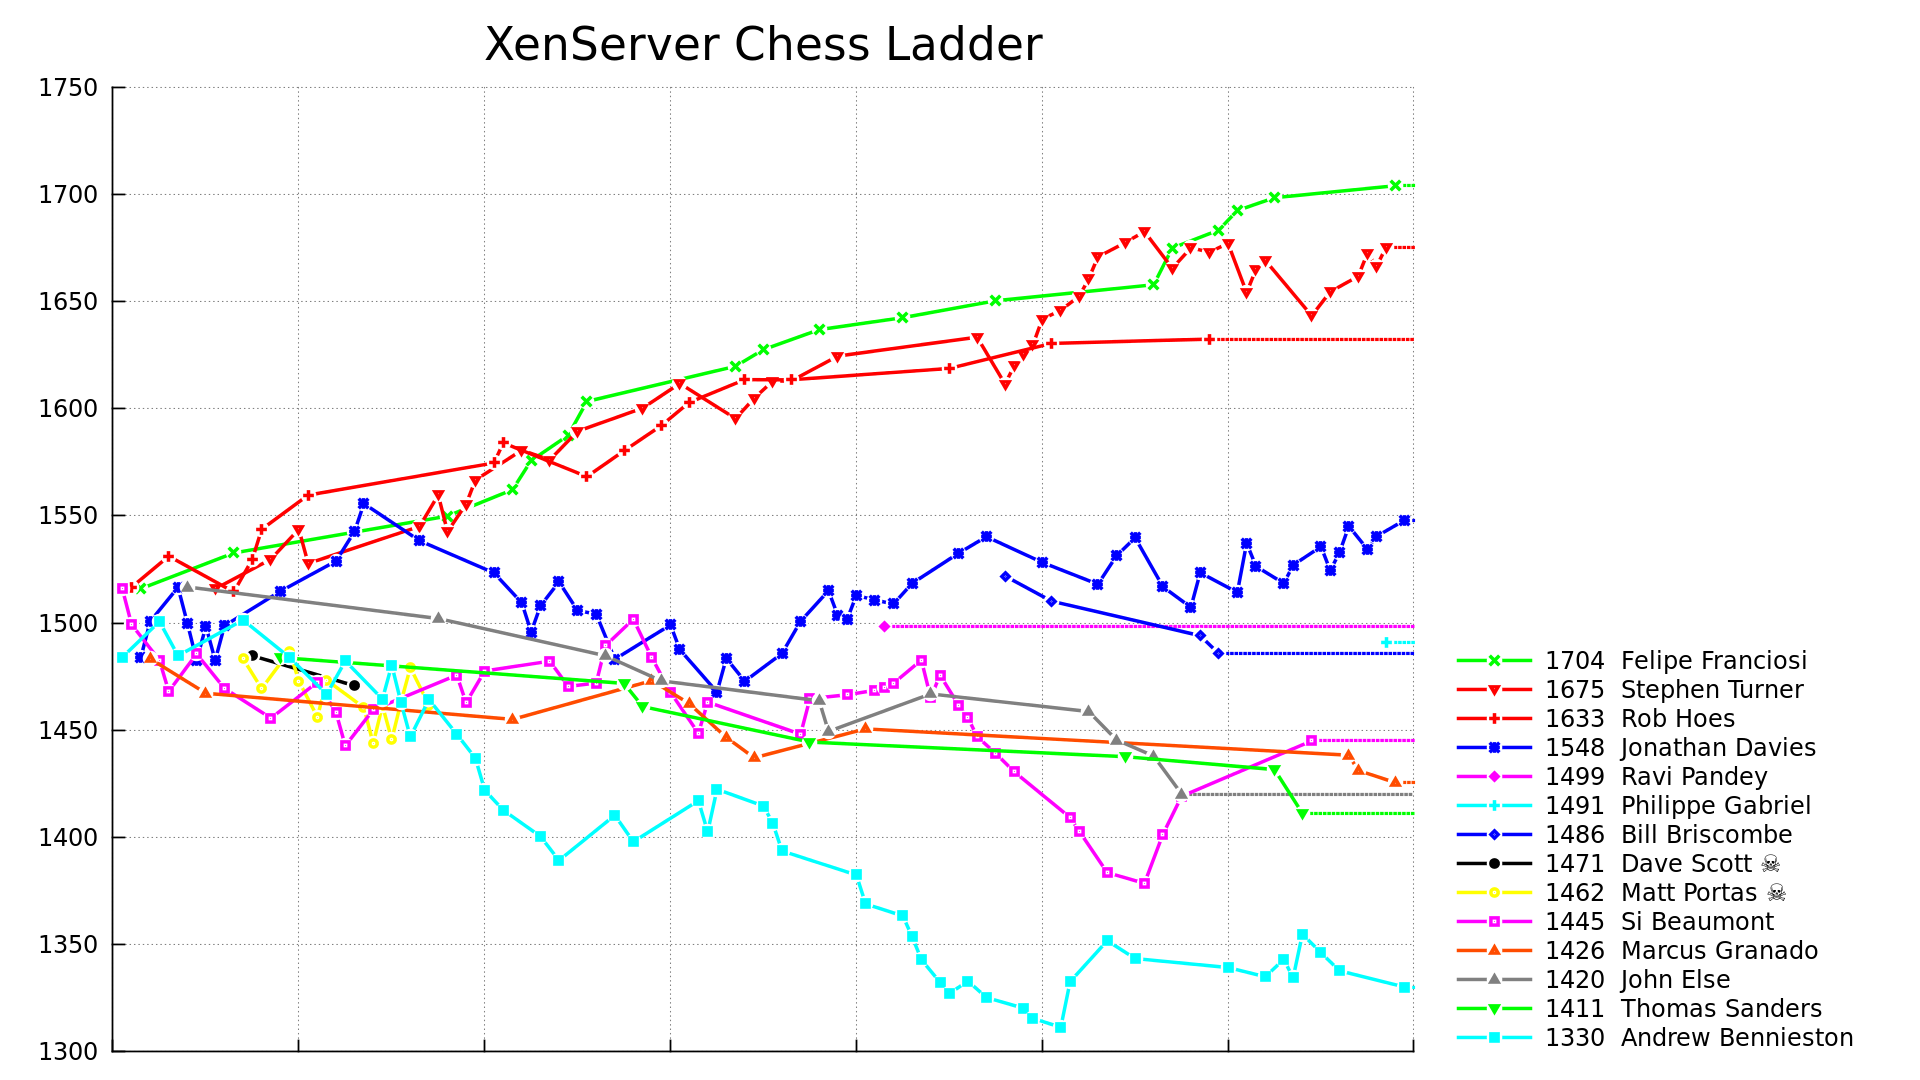
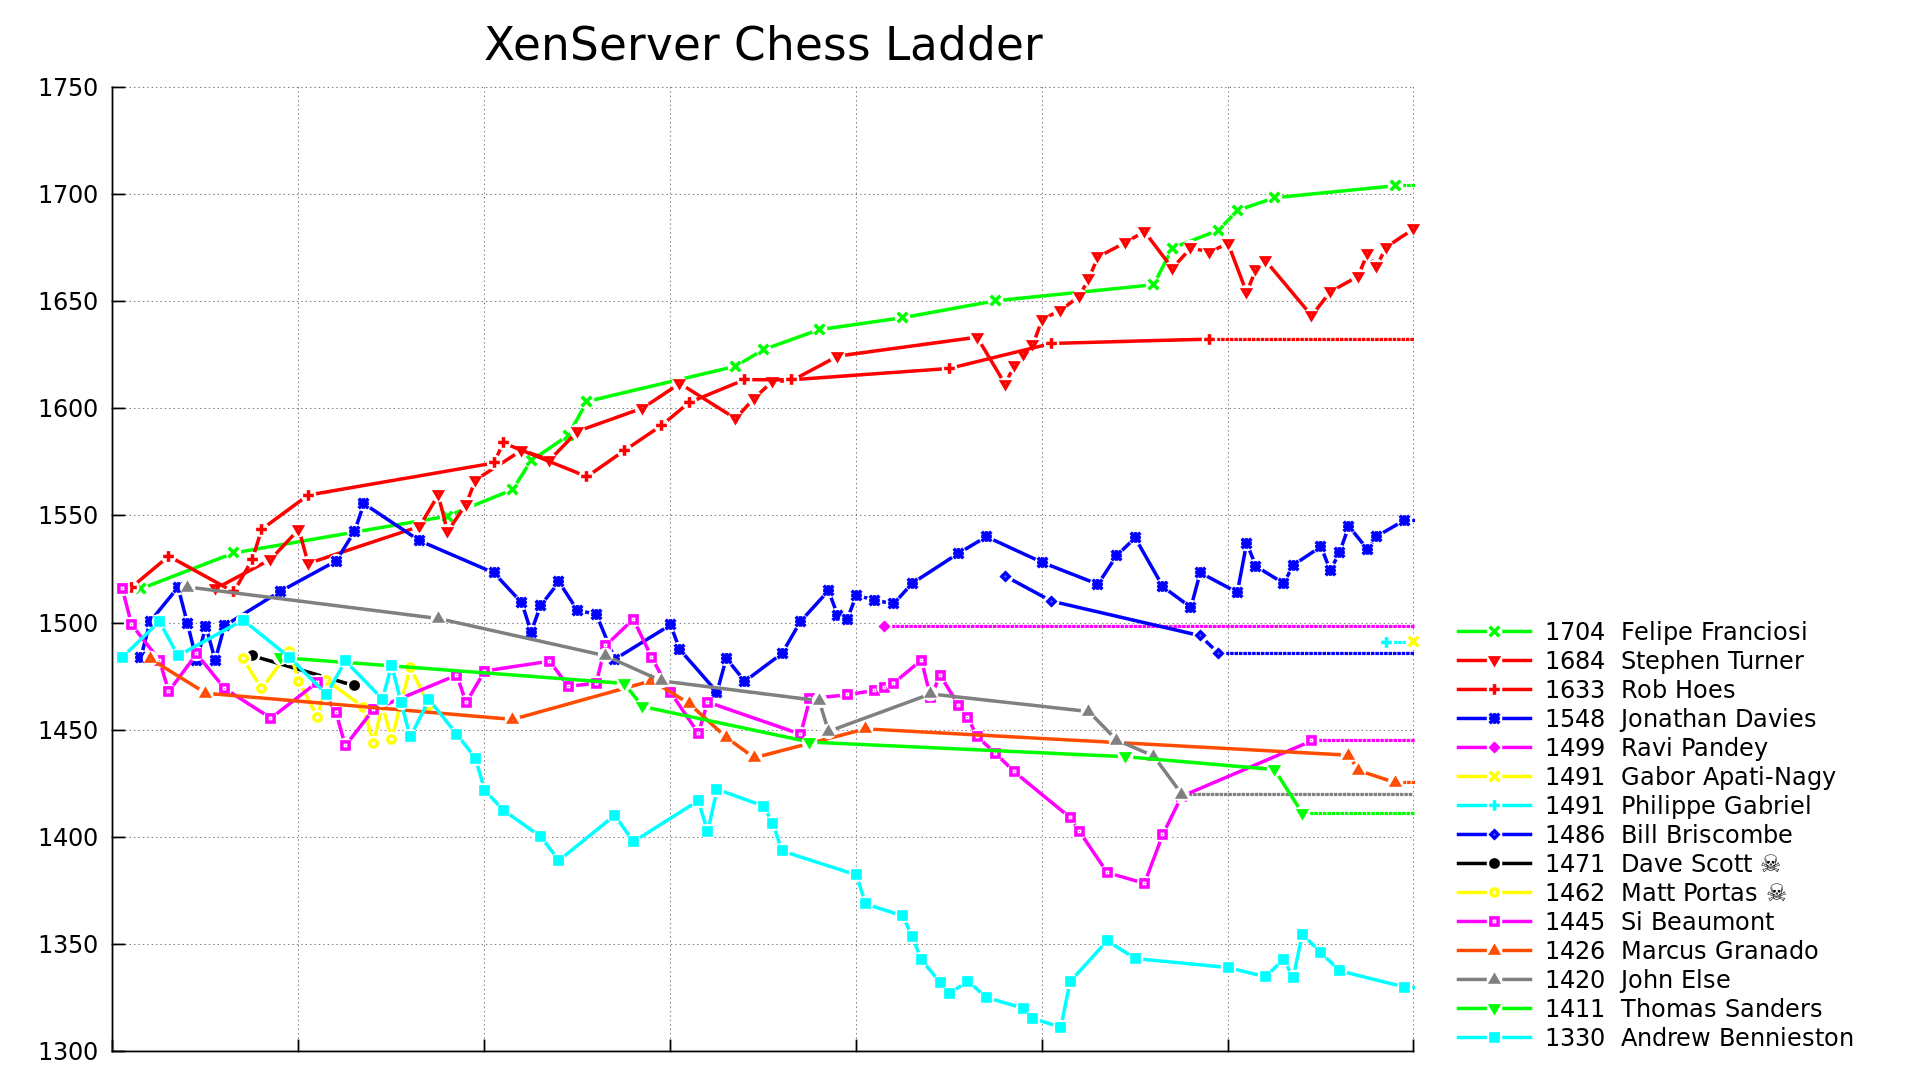
Travis build 267 pushed to gh-pages

Changed region(s): [[0.75, 0.5806, 0.9688, 0.7333]]

diff --git a/index.md b/index.md
@@ -4,32 +4,36 @@ layout: default
 # XenServer Chess Ladder
 ### Ladder
      1.  Felipe Franciosi                   1704  (18 / 18)
-     2.  Stephen Turner                     1675  (35 / 44)
+     2.  Stephen Turner                     1684  (36 / 45)
      3.  Rob Hoes                           1633  (14 / 17)
      4.  Jonathan Davies                    1548  (31 / 56)
      5.  Ravi Pandey                        1499  (0.5 / 1)
-     6.  Philippe Gabriel                   1491  (0 / 1)
-     7.  Bill Briscombe                     1486  (1 / 4)
-     8.  Dave Scott                      ☠  1471  (0 / 2)
-     9.  Matt Portas                     ☠  1462  (5 / 13)
-    10.  Si Beaumont                        1445  (18.5 / 44)
-    11.  Marcus Granado                     1426  (2 / 11)
-    12.  John Else                          1420  (2 / 11)
-    13.  Thomas Sanders                     1411  (0 / 7)
-    14.  Andrew Bennieston                  1330  (12 / 49)
+     6.  Gabor Apati-Nagy                   1491  (0 / 1)
+     7.  Philippe Gabriel                   1491  (0 / 1)
+     8.  Bill Briscombe                     1486  (1 / 4)
+     9.  Dave Scott                      ☠  1471  (0 / 2)
+    10.  Matt Portas                     ☠  1462  (5 / 13)
+    11.  Si Beaumont                        1445  (18.5 / 44)
+    12.  Marcus Granado                     1426  (2 / 11)
+    13.  John Else                          1420  (2 / 11)
+    14.  Thomas Sanders                     1411  (0 / 7)
+    15.  Andrew Bennieston                  1330  (12 / 49)
 ### Suggested games (least played)
              Ravi Pandey - Andrew Bennieston
           Thomas Sanders - Bill Briscombe
         Philippe Gabriel - Felipe Franciosi
+             Si Beaumont - Gabor Apati-Nagy
           Thomas Sanders - John Else
              Ravi Pandey - Jonathan Davies
         Philippe Gabriel - Marcus Granado
-             Si Beaumont - Philippe Gabriel
-                Rob Hoes - Bill Briscombe
-             Si Beaumont - Bill Briscombe
+                Rob Hoes - Philippe Gabriel
           Stephen Turner - Ravi Pandey
+                Rob Hoes - Gabor Apati-Nagy
+             Si Beaumont - Bill Briscombe
+        Gabor Apati-Nagy - Stephen Turner
           Thomas Sanders - Marcus Granado
 ### Games
+    2014-05-16:       Stephen Turner - Gabor Apati-Nagy          1 - 0
     2014-05-16:      Jonathan Davies - Andrew Bennieston         1 - 0
     2014-05-16:       Marcus Granado - Felipe Franciosi          0 - 1
     2014-05-14:       Stephen Turner - Philippe Gabriel          1 - 0
